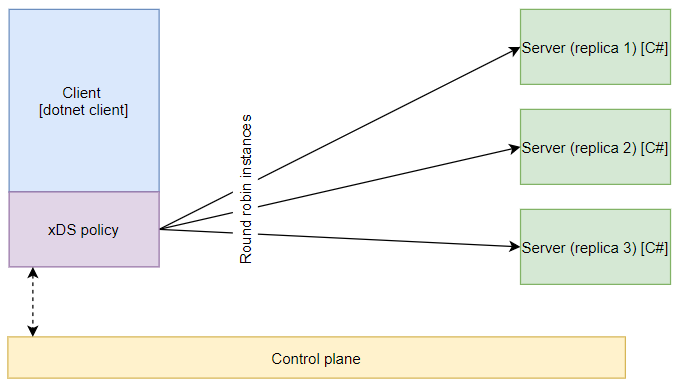
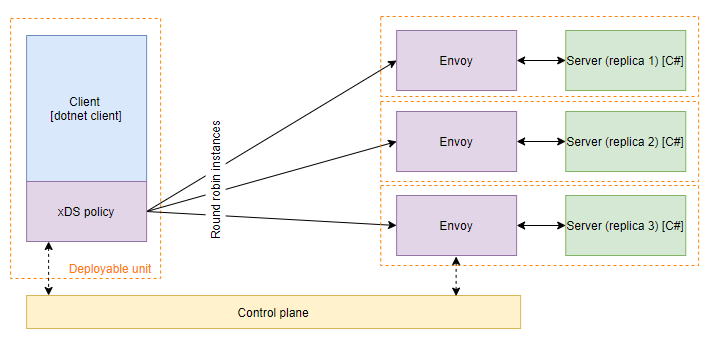
Update README, workbench use one node instance and update submodule head

diff --git a/Workbench.Xds/Program.cs b/Workbench.Xds/Program.cs
@@ -1,4 +1,5 @@
-using Envoy.Api.V2;
+using Envoy.Api.V2;
+using Envoy.Api.V2.Core;
 using Envoy.Service.Discovery.V2;
 using Grpc.Core;
 using Grpc.Net.Client;
@@ -26,6 +27,19 @@ namespace Workbench.Xds
 
         private static async Task MainAsync(string[] args)
         {
+            var node = new Node()
+            {
+                Id = "sidecar~192.168.0.1~xds.default~default.svc.cluster.local",
+                Cluster = "",
+                UserAgentName = "grpc-dotnet",
+                UserAgentVersion = "1.0.0",
+                Locality = new Locality()
+                {
+                    Region = "local-k8s-cluster",
+                    Zone = "a"
+                },
+                ClientFeatures = { "envoy.lb.does_not_support_overprovisioning" }
+            };
             var serviceName = "outbound|8000||grpc-server.default.svc.cluster.local";
             AppContext.SetSwitch("System.Net.Http.SocketsHttpHandler.Http2UnencryptedSupport", true);
             // kubectl port-forward -n istio-system service/istio-pilot 15010:15010
@@ -41,10 +55,7 @@ namespace Workbench.Xds
                 ResourceNames = { },
                 VersionInfo = string.Empty,
                 ResponseNonce = string.Empty,
-                Node = new Envoy.Api.V2.Core.Node()
-                {
-                    Id = "sidecar~192.168.0.1~xds.default~default.svc.cluster.local",
-                }
+                Node = node
             });
             // method onNext
             await connection.ResponseStream.MoveNext(CancellationToken.None);
@@ -68,10 +79,7 @@ namespace Workbench.Xds
                 ResourceNames = { mylistener.Name },
                 VersionInfo = version,
                 ResponseNonce = nonce,
-                Node = new Envoy.Api.V2.Core.Node()
-                {
-                    Id = "sidecar~192.168.0.1~xds.default~default.svc.cluster.local",
-                }
+                Node = node
             });
             await connection.ResponseStream.MoveNext(CancellationToken.None);
             discoveryResponse = connection.ResponseStream.Current;
@@ -87,10 +95,7 @@ namespace Workbench.Xds
                 ResourceNames = { },
                 VersionInfo = version,
                 ResponseNonce = nonce,
-                Node = new Envoy.Api.V2.Core.Node()
-                {
-                    Id = "sidecar~192.168.0.1~xds.default~default.svc.cluster.local",
-                }
+                Node = node
             });
             await connection.ResponseStream.MoveNext(CancellationToken.None);
             discoveryResponse = connection.ResponseStream.Current;
@@ -112,10 +117,7 @@ namespace Workbench.Xds
                 ResourceNames = { edsClusterName },
                 VersionInfo = version,
                 ResponseNonce = nonce,
-                Node = new Envoy.Api.V2.Core.Node()
-                {
-                    Id = "sidecar~192.168.0.1~xds.default~default.svc.cluster.local",
-                }
+                Node = node
             });
             await connection.ResponseStream.MoveNext(CancellationToken.None);
             discoveryResponse = connection.ResponseStream.Current;

diff --git a/scenarios/NetCore.DotNet.xDS/README_with_nosidecars.md b/scenarios/NetCore.DotNet.xDS/README_with_nosidecars.md
@@ -1,14 +1,12 @@
-# Loadbalancing via xDS policy for gRPC dotnet client
+# Loadbalancing via xDS policy for gRPC dotnet client (with no side cars)
 
 ## Overview
 
-![Overview](./overview.PNG)
+![Overview](./overview_with_nosidecars.PNG)
 
 __NOTE: Run commands in root directory__
 
 __NOTE: K8s files works with local docker images, change imagePullPolicy to allow remote registry__
-
-__NOTE: it is possible to use it with service with no sidecars [see here](./README_with_nosidecars.md)__
 
 ## Prerequisites
 
@@ -23,9 +21,8 @@ docker build -t grpc-server:latest -f .\NetCoreGrpc.ServerApp\Dockerfile .
 
 ## Create resources in K8s
 ```
-kubectl label --overwrite namespace default istio-injection=enabled
-kubectl apply -f .\k8s\grpc-server-non-headless.yaml
 kubectl label --overwrite namespace default istio-injection=disabled
+kubectl apply -f .\k8s\grpc-server-non-headless.yaml
 kubectl create -f .\k8s\grpc-dotnet-client-xds.yaml
 ```
 
@@ -41,4 +38,4 @@ kubectl delete -f .\k8s\grpc-server-non-headless.yaml
 kubectl label --overwrite namespace default istio-injection=disabled
 ```
 
-[go back](../../README.md)
+[go back](./README.md)

diff --git a/README.md b/README.md
@@ -19,6 +19,7 @@ Scenarios covered by this repository are:
 - sidecar load (static config) balancing for gRPC dotnet [README](scenarios/NetCore.DotNet.Sidecar.StaticConfiguration/README.md)
 - sidecar load (dynamic config) balancing for gRPC dotnet [README](scenarios/NetCore.DotNet.Sidecar.DynamicConfiguration/README.md)
 - istio service mesh load balancing for gRPC dotnet [README](scenarios/NetCore.DotNet.ServiceMesh/README.md)
+- xDS balancing for gRPC dotnet [README](scenarios/NetCore.DotNet.xDS/README.md)
 - lookaside load balancing for gRPC Java client [README](scenarios/Java.Lookaside/README.md)
 - lookaside load balancing for gRPC Go client [README](scenarios/Go.Lookaside/README.md)
 - lookaside load balancing for gRPC Python client [README](scenarios/Python.Lookaside/README.md) 
